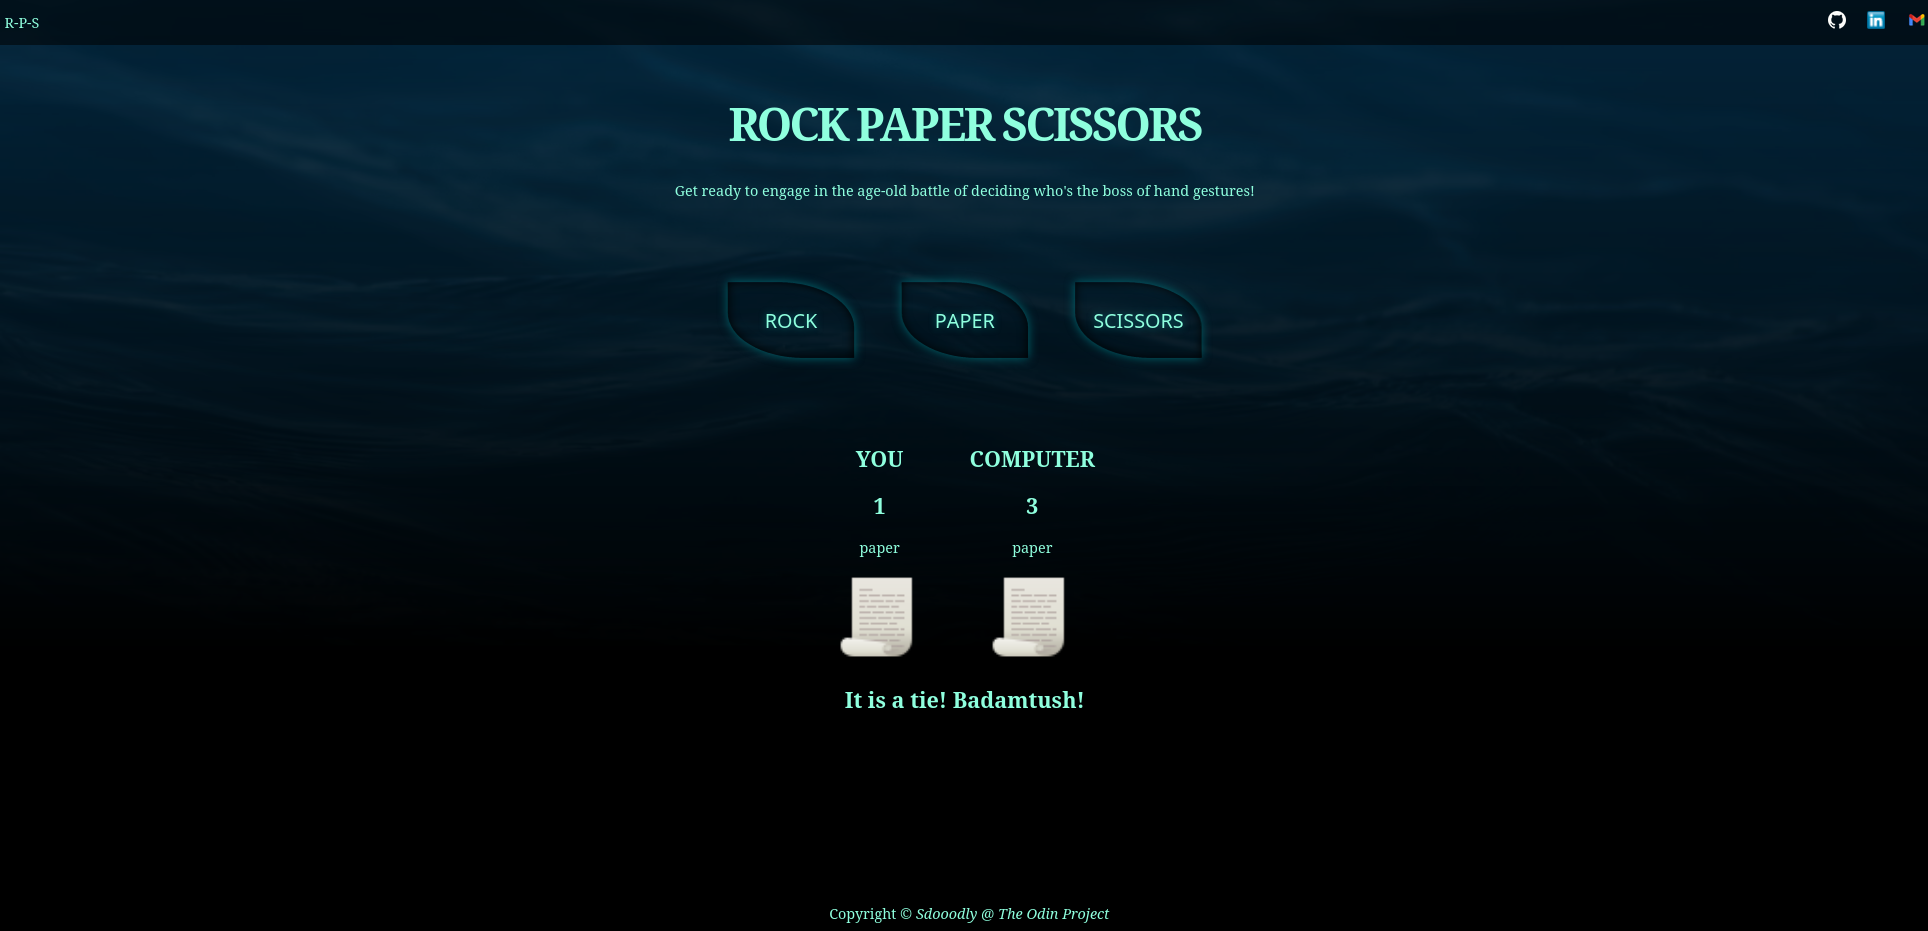
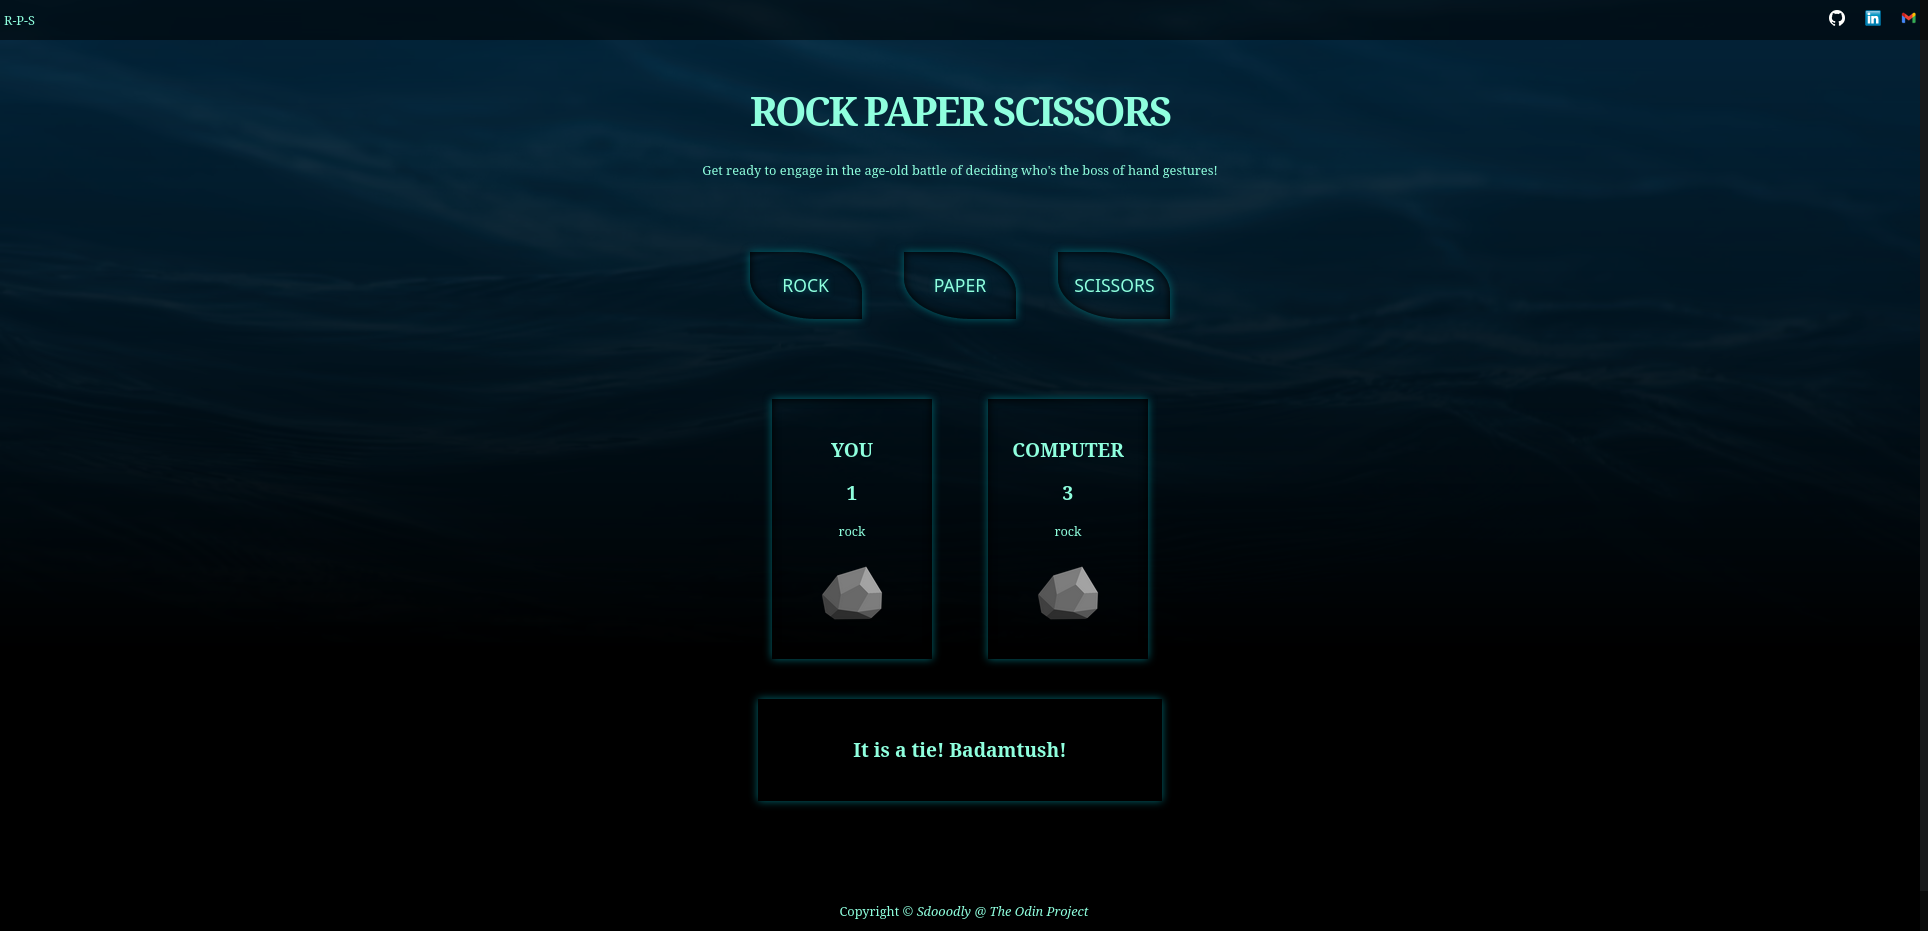
Add boxes

diff --git a/styles.css b/styles.css
@@ -1,4 +1,3 @@
-/* Style for the buttons */
 body {
     background: url(./images/bg.avif);
     background-size: cover;
@@ -10,13 +9,11 @@ body {
     font-family: 'Gambetta', serif;
 }
 
-
 .overlayContainer {
     background: linear-gradient(0deg, #000000 30%, #00304ede 100%);
     height: 100vh;
     color: rgb(168, 255, 229);
 }
-
 
 h1 {
     font-size: 50px;
@@ -33,7 +30,6 @@ h1:hover {
     font-variation-settings: "wght"582;
     letter-spacing: 1px;
 }
-
 
 .content {
     display: flex;
@@ -66,9 +62,6 @@ h1:hover {
     }
 }
 
-
-
-
 .popup {
     display: none;
     background: linear-gradient(45deg, #00322fb3 30%, #002548 100%);
@@ -98,29 +91,9 @@ h1:hover {
 }
 
 .button-container {
-
     display: flex;
     justify-content: space-around;
 }
-
-/* 
-table {
-    border-collapse: collapse;
-    width: 100%;
-    max-width: 800px;
-   
-    margin: 0 auto;
-    
-}
-
-th,
-td {
-    border: 1px solid #ccc;
-    padding: 8px;
-    text-align: left;
-}
-
-*/
 
 footer,
 header {
@@ -132,7 +105,6 @@ header {
     align-items: center;
     margin: 0;
 }
-
 
 header {
     justify-content: space-between;
@@ -161,11 +133,9 @@ footer {
     background-size: contain;
 }
 
-
 .linkedin-icon {
     background-image: url("https://www.linkedin.com/favicon.ico");
 }
-
 
 .github-icon {
     background-image: url("https://github.com/favicon.ico");
@@ -183,13 +153,29 @@ footer {
     gap: 50px;
 }
 
-/*change
-.left, .right{
-  display: flex;
-  flex-direction: column;
-  justify-content: center;
-} 
-*/
+.column {
+    color: rgb(168, 255, 229);
+    margin: 25px 10px;
+    padding: 27px 0;
+    width: 200px;
+    background-color: transparent;
+    border: none;
+    box-shadow: 0 0 10px #98f8ff, 0 0 10px #000000 inset;
+    transition: all 0.3s ease-in;
+}
+
+.resultDiv {
+    color: rgb(168, 255, 229);
+    margin: 25px 10px;
+    padding: 27px;
+    width: 450px;
+    background-color: transparent;
+    border: none;
+    box-shadow: 0 0 10px #98f8ff, 0 0 10px #000000 inset;
+    transition: all 0.3s ease-in;
+    text-align: center;
+}
+
 .optionsIcon {
     background-repeat: no-repeat;
     background-size: contain;
@@ -199,14 +185,6 @@ footer {
     color: #fff;
     background-color: #007bff00;
     cursor: pointer;
-}
-
-button {
-    padding: 10px 20px;
-    font-size: 20px;
-    margin-right: 10px;
-    /*background-color: pink;
-  border-radius: 80%;*/
 }
 
 .options {

diff --git a/index.html b/index.html
@@ -34,8 +34,8 @@
                 Step right up and take your place among the legends of Rock Paper Scissors!</p>
             <p>Good luck!!!</p>
             <div class="button-container">
-                <button id="yesBtn">YES</button>
-                <button id="noBtn">NO</button>
+                <button id="yesBtn" class="diamond">YES</button>
+                <button id="noBtn" class="diamond">NO</button>
             </div>
 
         </div>
@@ -57,13 +57,13 @@
             </div>
 
             <div class="score">
-                <div class="left">
+                <div class="column">
                     <h2>YOU</h2>
                     <h2 id="yourScoreCell">0</h2>
                     <p id="ycText"></p>
                     <img id="yourChoiceImg" class="optionsIcon" src="" alt="">
                 </div>
-                <div class="left">
+                <div class="column">
                     <h2>COMPUTER</h2>
                     <h2 id="computerScoreCell">0</h2>
                     <p id="ccText"></p>
@@ -72,9 +72,10 @@
             </div>
 
 
+            <div class="resultDiv">
 
-
-            <h2 id="result"></h2>
+                <h2 id="result"></h2>
+            </div>
 
             <!--<br><br> 
 
